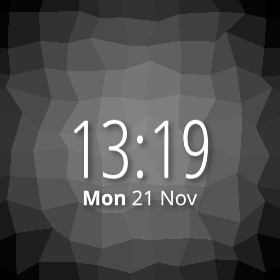
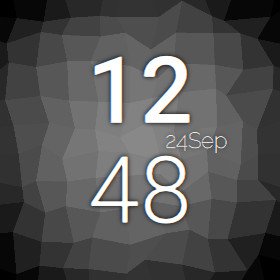
Changes the default watchface to a Roboto+Raleway centered text version

diff --git a/watchfaces/003-alternative-digital.qml b/watchfaces/003-alternative-digital.qml
@@ -33,51 +33,59 @@ import QtGraphicalEffects 1.0
 
 Item {
     id: rootitem
-    anchors.fill: parent
 
-    function twoDigits(x) {
-        if (x<10) return "0"+x;
-        else      return x;
+    Text {
+        id: timeDisplay
+
+        font.pixelSize: 80
+        font.weight: Font.Light
+        lineHeight: 0.85
+        color: "white"
+        horizontalAlignment: Text.AlignHCenter
+
+        anchors {
+            verticalCenter: parent.verticalCenter
+            left: parent.left
+            right: parent.right
+        }
+
+        text: Qt.formatDateTime(wallClock.time, "hh:mm")
     }
 
-    Item {
-        id: clock
-        anchors.fill: parent
-        Text {
-            id: hour
-            text: twoDigits(wallClock.time.getHours())
-            font.pixelSize: parent.height/3
-            font.family: "Roboto"
-            font.weight: Font.Medium
-            anchors.centerIn: parent
-            anchors.verticalCenterOffset: -parent.width*0.19
-            color: "white"
-        }
-        Text {
-            id: minute
-            text: twoDigits(wallClock.time.getMinutes())
-            font.pixelSize: parent.height/3
-            font.family: "Roboto"
-            font.weight: Font.Light
-            anchors.centerIn: parent
-            anchors.verticalCenterOffset: parent.width/6
-            color: "white"
-        }
-        Text {
-            id: date
-            text: Qt.formatDate(wallClock.time, "dMMM")
-            font.pixelSize: parent.height/13
-            font.family: "Raleway"
-            font.weight: Font.Thin
-            anchors.centerIn: parent
-            anchors.horizontalCenterOffset: parent.width/5
-            color: "white"
-        }
-    }
     DropShadow {
-        anchors.fill: clock
-        source: clock
-        radius: 7.0
-        samples: 15
+        anchors.fill: timeDisplay
+        horizontalOffset: 3
+        verticalOffset: 3
+        radius: 8.0
+        samples: 16
+        color: "#80000000"
+        source: timeDisplay
+    }
+
+    Text {
+        id: dateDisplay
+
+        font.pixelSize: 20
+        color: "white"
+        opacity: 0.8
+        horizontalAlignment: Text.AlignHCenter
+
+        anchors {
+            top: timeDisplay.bottom
+            left: parent.left
+            right: parent.right
+        }
+
+        text: Qt.formatDate(wallClock.time, "<b>ddd</b> d MMM")
+    }
+
+    DropShadow {
+        anchors.fill: dateDisplay
+        horizontalOffset: 3
+        verticalOffset: 3
+        radius: 8.0
+        samples: 16
+        color: "#80000000"
+        source: dateDisplay
     }
 }
